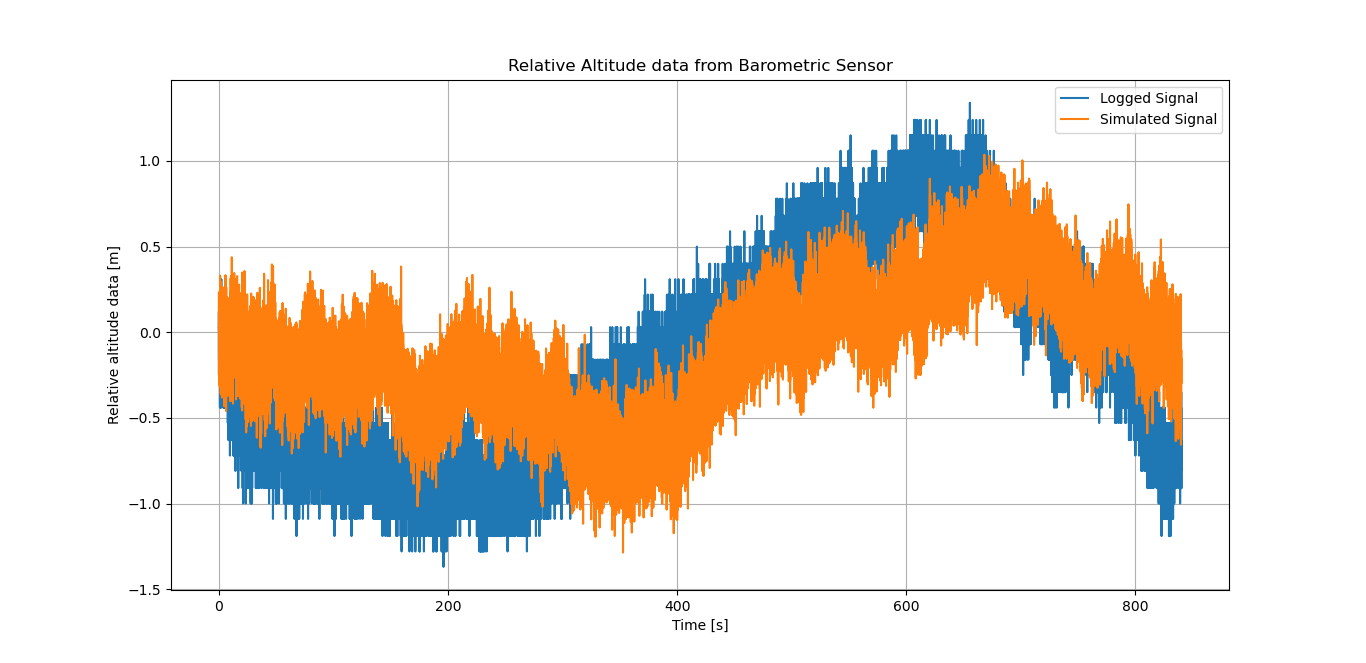
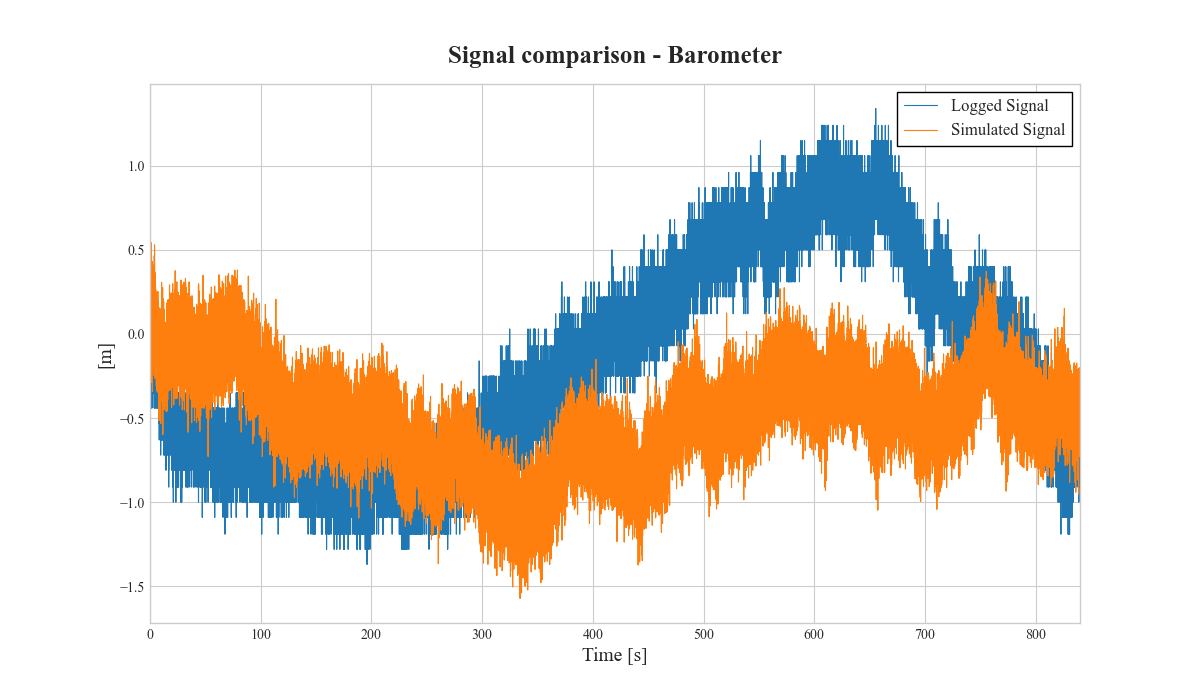
Plots update.

diff --git a/BarometricAltimeterCalibrationModules/bar_altimeter_calibration.py b/BarometricAltimeterCalibrationModules/bar_altimeter_calibration.py
@@ -118,37 +118,44 @@ def compute_allan_variance(
 def auto_estimate_R_q_from_allan(
     tau: np.ndarray, 
     sigma: np.ndarray, 
-    fs: np.float,
+    fs: float,
     slope_tol: float=0.1, 
-    min_points: int=3,
-    plot: bool=False
+    min_points: int=4,
+    plot: bool=False,
+    u: Optional[str] = None,
+    title: Optional[str] = None,
+    spanish: bool=False
 ) -> Tuple[float, float, Tuple[int, int], Tuple[int, int]]:
     """
     Automatically estimate R and q from Allan deviation curve.
     It is assumed the standard 1-state random–walk + white-noise measurement model
-    for the altimeter signal.
+    for a sensor signal.
 
     d_k = p_k + b_k + v_k ,    v_k ~ N(0, R)
     b_{k+1} = b_k + w_k ,      w_k ~ N(0, q·T_s)
 
     where:
-        - d_k = barometer measurement (altitude)
-        - p_k = true altitude
-        - R   = white measurement–noise variance [m²]
+        - d_k = sensor measurement 
+        - p_k = true measurement
+        - R   = white measurement–noise variance [u²]
         - b_k = barometer bias at step k
-        - q   = bias random–walk intensity [m²/s]
+        - q   = bias random–walk intensity [u²/s]
         - T_s = sampling time [s]
 
     Args:
         tau: Array of interval lengths in seconds.
-        sigma: Array of corresponding Allan Deviation values [m].
+        sigma: Array of corresponding Allan Deviation values [u].
         fs: Sampling frecuency [Hz].
         slope_tol: Allowed deviation from ideal slopes (-0.5, +0.5).
         min_points: Minimum number of consecutive points to accept a region.
+        plot: Plot flag.
+        u: Plot units.
+        title: Plot title.
+        spanish: Spanish comments.
 
     Returns:
-        R: Measurement noise variance [m^2].
-        q: Random walk intensity [m^2/s].
+        R: Measurement noise variance [u^2].
+        q: Random walk intensity [u^2/s].
         tau_white_region: (min_tau, max_tau) used for white noise fit.
         tau_rw_region: (min_tau, max_tau) used for random walk fit.
     """
@@ -214,13 +221,18 @@ def auto_estimate_R_q_from_allan(
         q, tau_rw = np.nan, None
 
     if plot:
+        if spanish:
+            plot_legend = ["Desviación de Allan de la medición del sensor","Pendiente Ruido Blanco Gaussiano","Pendiente Deriva Aleatoria del Sesgo"]
+            plot_xlabel = "Duración del intervalo [s]"
+            plot_ylabel = f"Desviación de Allan de la señal del sensor [{u}]"
+        else:   
+            plot_legend = ["Sensor measurement Allan Dev.","White-Gaussian Noise slope","Random-Walk bias slope"]
+            plot_xlabel = "Interval Length [s]"
+            plot_ylabel = f"Sensor signal Allan deviation [{u}]"
         utils.show_loglog_data(tau, np.vstack([sigma,np.sqrt(R/fs)/np.sqrt(tau),np.sqrt(q/3)*np.sqrt(tau)]).T, 
-                               legend=["Relative altitude Allan Dev.","White-Gaussian Noise","Random-Walk bias"],
-                               xlabel="Interval Length [s]", ylabel="Allan Deviation [m]",
-                               title="Altitude signal Allan Deviation")
+                               legend=plot_legend, xlabel=plot_xlabel, ylabel=plot_ylabel, title=title)
 
     return R, q, tau_white, tau_rw
-
 
 
 

diff --git a/BarometricAltimeterCalibrationModules/utils.py b/BarometricAltimeterCalibrationModules/utils.py
@@ -13,6 +13,9 @@ from typing import Tuple, Union
 import numpy as np
 import matplotlib.pyplot as plt
 
+plt.style.use('seaborn-whitegrid')
+plt.rcParams['font.family'] = 'Times New Roman'
+
 def log_data_from_barometric_altimeter(
     port: str,
     baud_rate: int,
@@ -200,12 +203,26 @@ def show_loglog_data(
     """
 
     # Visualization
-    plt.loglog(x_data, y_data)
-    plt.xlabel(xlabel)
-    plt.ylabel(ylabel)
-    plt.legend(legend)
-    plt.title(title)
-    plt.grid(True, which="both")
+    _, ax1 = plt.subplots(figsize=(12, 7))
+    lines = ax1.loglog(x_data, y_data, linewidth=0.8)
+    for line, label in zip(lines, legend):
+        line.set_label(label)
+    ax1.grid(True)
+    ax1.set_xlabel(xlabel, fontsize=14)
+    ax1.set_ylabel(ylabel, fontsize=14)
+    ax1.set_title(title, fontsize=18, fontweight='bold', pad=15)
+    handles, _ = ax1.get_legend_handles_labels()
+    ax1.legend(
+        handles=handles,
+        fontsize=12,
+        loc="best",
+        frameon=True,        
+        fancybox=False,     
+        framealpha=1.0,      
+        edgecolor='black',  
+        facecolor='white'   
+    )
+
     plt.show()
 
 def show_time_data(
@@ -213,11 +230,11 @@ def show_time_data(
     fs: Union[int,float], 
     legend: list,
     xlabel: str="Time [s]",
-    ylabel: str="Relative altitude data [m]",
-    title: str="Relative Altitude data from Barometric Sensor"
+    ylabel: str="Sensor measurement data [u]",
+    title: str="Sensor data"
 ) -> None:
     """
-    Show relative altitude data from barometric altimeter as a function of time.
+    Show sensor data as a function of time.
 
     Args:
         data: Data array of shape (N,) where N is number of samples.
@@ -235,13 +252,25 @@ def show_time_data(
     # Time vector
     time_vector = np.arange(0, n_samples, 1) / fs
 
-    # Completed barometer data over time
     _, ax1 = plt.subplots(figsize=(12, 7))
-    ax1.plot(time_vector, data)
+    lines = ax1.plot(time_vector, data, linewidth=0.8)
+    for line, label in zip(lines, legend):
+        line.set_label(label)
     ax1.grid(True)
-    ax1.set_xlabel(xlabel)
-    ax1.set_ylabel(ylabel)
-    ax1.set_title(title)
-    ax1.legend(legend)
+    ax1.set_xlabel(xlabel, fontsize=14)
+    ax1.set_xlim(time_vector[0], time_vector[-1])
+    ax1.set_ylabel(ylabel, fontsize=14)
+    ax1.set_title(title, fontsize=18, fontweight='bold', pad=15)
+    handles, _ = ax1.get_legend_handles_labels()
+    ax1.legend(
+        handles=handles,
+        fontsize=12,
+        loc="best",
+        frameon=True,        
+        fancybox=False,     
+        framealpha=1.0,      
+        edgecolor='black',  
+        facecolor='white'   
+    )
 
     plt.show()

diff --git a/CalibrationTests/test_signal_characterization.py b/CalibrationTests/test_signal_characterization.py
@@ -9,6 +9,8 @@ import numpy as np
 import BarometricAltimeterCalibrationModules.bar_altimeter_calibration as bar
 from BarometricAltimeterCalibrationModules.utils import extract_barometric_altimeter_data, show_time_data
 
+spanish = False
+
 # Use synthetic data
 synthetic = False
 
@@ -27,11 +29,6 @@ else:
     bar_data = bar.simulate_sensor_data(60000,sampling_freq, R_real, q_real)
 n_samples = bar_data.shape[0]
 
-print(f"Number of samples in the file: {n_samples}")
-
-# Recorded data
-show_time_data(bar_data, sampling_freq, ["Relative altitude [m]", "Temperature [°C]"])
-
 rel_alt = bar_data[:,0]
 temp = bar_data[:,1]
 time_vector = np.arange(0, n_samples, 1) / sampling_freq
@@ -41,11 +38,21 @@ tau, avar = bar.compute_allan_variance(rel_alt, sampling_freq, m_steps='exponent
 rel_alt_a_dev = np.sqrt(avar).reshape(-1)
 
 # Estimate R and q values
-R, q, tauwn, taurw = bar.auto_estimate_R_q_from_allan(tau, rel_alt_a_dev, sampling_freq, plot=True)
+if spanish:
+    title_plot = "Desviacion de Allan de la medición del barómetro"
+else:
+    title_plot = "Barometer measurement Allan Deviation"
+R, q, tauwn, taurw = bar.auto_estimate_R_q_from_allan(tau, rel_alt_a_dev, sampling_freq, u='m', title=title_plot, plot=True, spanish=spanish)
 
 # Show results
-print(f"Barometric altimeter white measurement–noise variance [m²]: {R}")
-print(f"Barometric altimeter bias random–walk intensity [m²/s]: {q}")
+if spanish:
+    print(f">>> Número de muestras en el archivo de calibración: {n_samples}")
+    print(f">>> Varianza del ruido blanco de medición del barómetro [-]: {R}")
+    print(f">>> Intensidad de la caminata aleatoria del sesgo del barómetro [(-)/s]: {q}")
+else:
+    print(f">>> Number of samples in the calibration file: {n_samples}")
+    print(f">>> Barometer white measurement–noise variance [-]: {R}")
+    print(f">>> Barometer bias random–walk intensity [(-)/s]: {q}")
 
 # Save data if required
 if save:
@@ -53,6 +60,9 @@ if save:
 
 # Show time data and simulated data.
 sim_data = bar.simulate_sensor_data(n_samples, sampling_freq, R, q, temp)
-show_time_data(np.vstack([rel_alt, sim_data]).T, sampling_freq, ["Logged Signal", "Simulated Signal"])
 
+if spanish:
+    show_time_data(np.vstack([rel_alt, sim_data]).T, sampling_freq, legend=["Señal medida", "Señal simulada"], xlabel="Tiempo [s]", ylabel="[m]", title="Comparación de señales - Barómetro")
+else:
+    show_time_data(np.vstack([rel_alt, sim_data]).T, sampling_freq, ["Logged Signal", "Simulated Signal"], ylabel="[m]", title="Signal comparison - Barometer")
 
